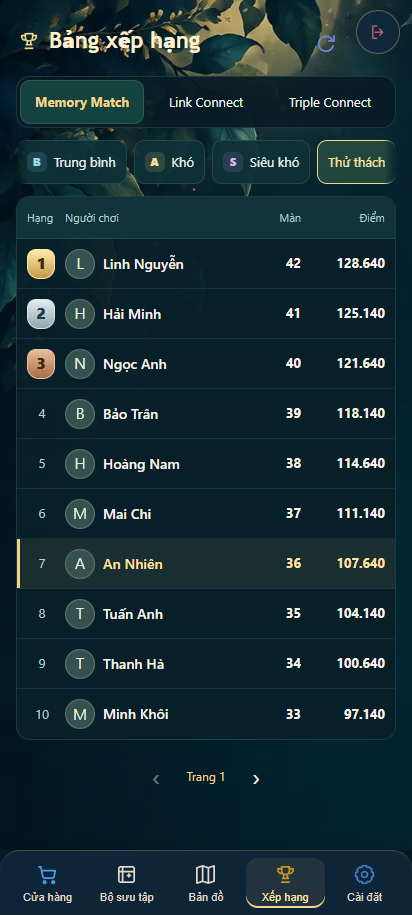
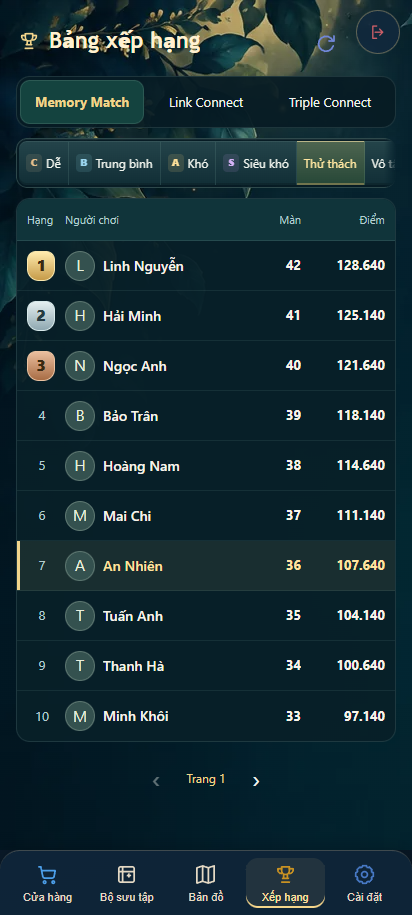
feat: add scrolling stage dropdown and compact mode strip

diff --git a/tests/ui/leaderboard-layout.spec.js b/tests/ui/leaderboard-layout.spec.js
@@ -35,31 +35,42 @@ for (const count of [0, 1, 10, 11]) test(`record count ${count}, private own rec
   await expect(page.locator('.leaderboard-view')).not.toContainText('Đã cập nhật');
   await expect(page.locator('.leaderboard-list img')).toHaveCount(0);
 });
-test('stage picker confirms 212 once, rejects invalid input and returns focus on cancel', async ({ page }) => {
+test('stage list scrolls upwards, selects 212 and MAX once and restores focus', async ({ page }) => {
   await page.setViewportSize({ width: 412, height: 915 }); await open(page);
   const before = await page.evaluate(() => window.rankRequests.length);
-  await page.getByRole('button', { name: 'Chọn màn', exact: true }).click();
-  const input = page.getByLabel('Màn chơi', { exact: true });
-  await input.fill('212');
+  const anchor = page.getByRole('button', { name: 'Chọn màn', exact: true });
+  await anchor.click();
+  const list = page.getByRole('listbox', { name: 'Màn chơi' });
+  await expect(list).toBeFocused(); await expect(page.locator('.leaderboard-stage-dialog')).toHaveAttribute('data-direction', 'up');
+  const box = await list.boundingBox(); const button = await anchor.boundingBox();
+  expect(box.height).toBe(440); expect(box.y + box.height).toBeLessThan(button.y);
+  await list.press('Home');
+  for (let i = 0; i < 21; i++) await list.press('PageDown');
+  await list.press('ArrowDown');
   expect(await page.evaluate(() => window.rankRequests.length)).toBe(before);
-  await input.press('Enter');
-  await expect(page.locator('.leaderboard-context')).toHaveCount(0);
-  await expect(page.getByRole('button', { name: 'Chọn màn', exact: true })).toContainText('212');
+  await list.press('Enter');
+  await expect(anchor).toContainText('212');
   expect(await page.evaluate(() => window.rankRequests.at(-1))).toMatchObject({ level: 212, page: 1 });
-  await page.getByRole('button', { name: 'Chọn màn', exact: true }).click();
-  for (const invalid of ['0', '-1', '2.5', 'abc', '9007199254740991']) {
-    await input.fill(invalid); await input.press('Enter');
-    await expect(input).toHaveAttribute('aria-invalid', 'true');
-    await expect(page.getByRole('button', { name: 'Chọn màn', exact: true })).toContainText('212');
-  }
-  await input.press('Escape');
-  await expect(page.locator('#leaderboard-stage-picker')).toHaveCount(0);
-  await expect(page.getByRole('button', { name: 'Chọn màn', exact: true })).toBeFocused();
-  await page.getByRole('button', { name: 'Chọn màn', exact: true }).click();
-  await input.fill('9007199254740900'); await input.press('Enter');
-  await expect(page.getByRole('button', { name: 'Chọn màn', exact: true })).toContainText('9007199254740900');
+  await anchor.click();
+  await list.evaluate(node => { node.scrollTop = node.scrollHeight; });
+  await expect(page.getByRole('option', { name: 'Màn 246', exact: true })).toHaveCount(1);
+  expect(await list.locator('[role="option"]').count()).toBeLessThanOrEqual(40);
+  await list.press('Escape'); await expect(page.locator('#leaderboard-stage-picker')).toHaveCount(0); await expect(anchor).toBeFocused();
+  await anchor.click(); await list.press('End');
+  const maxOption = page.getByRole('option', { name: 'Màn 9007199254740900', exact: true });
+  await expect(maxOption).toHaveAttribute('title', 'Màn 9007199254740900');
+  expect(await maxOption.evaluate(node => getComputedStyle(node).whiteSpace)).toBe('nowrap');
+  await list.press('Enter');
+  await expect(anchor).toContainText('9007199254740900');
   expect(await page.evaluate(() => window.rankRequests.at(-1).level)).toBe(9007199254740900);
-  await page.screenshot({ path: 'test-results/ranking-stage-picker-confirmed.png' });
+  await anchor.click(); await list.press('Home'); await list.press('Enter'); await expect(anchor).toContainText('Màn 1');
+  await anchor.click();
+  await page.setViewportSize({ width: 844, height: 390 });
+  const compact = await list.boundingBox();
+  expect(compact.y).toBeGreaterThanOrEqual(0); expect(compact.y + compact.height).toBeLessThan(390);
+  await page.getByRole('option', { name: 'Màn 2', exact: true }).click();
+  await expect(anchor).toContainText('Màn 2'); await expect(anchor).toBeFocused();
+  expect(await page.evaluate(() => window.rankRequests.at(-1))).toMatchObject({ level: 2, page: 1 });
 });
 test('30 mount, picker cancel and mode changes release every page-owned resource', async ({ page }) => {
   await open(page);
@@ -76,7 +87,7 @@ test('30 mount, picker cancel and mode changes release every page-owned resource
     await page.evaluate(async () => { window.rankCycleModal = (await import('/js/leaderboardPanel.js')).openLeaderboards(undefined, undefined, { presentation: 'screen', host: document.querySelector('.adventure-screen-host'), owner: (await import('/js/appPageLifecycle.js')).getAppPageScope() }); });
     await expect(page.locator('.leaderboard-heading')).toBeVisible();
     await page.getByRole('button', { name: 'Chọn màn', exact: true }).click();
-    await page.getByLabel('Màn chơi', { exact: true }).press('Escape');
+    await page.getByRole('listbox', { name: 'Màn chơi', exact: true }).press('Escape');
     await expect(page.locator('#leaderboard-stage-picker')).toHaveCount(0);
     await page.locator('[data-rank-mode="challenge"]').click();
     await expect(page.locator('.leaderboard-heading')).toContainText('Điểm');
@@ -158,7 +169,7 @@ test('final garden artwork, centered footer and background failure keep a usable
   await page.setViewportSize({ width: 412, height: 915 }); await open(page, 21, true);
   await page.evaluate(() => { window.rankNames = ['Linh Nguyễn', 'Hải Minh', 'Ngọc Anh', 'Bảo Trân', 'Hoàng Nam', 'Mai Chi', 'An Nhiên', 'Tuấn Anh', 'Thanh Hà', 'Minh Khôi']; window.rankUid = 'row-6'; });
   await page.getByRole('button', { name: 'Chọn màn', exact: true }).click();
-  await page.getByLabel('Màn chơi', { exact: true }).fill('212'); await page.getByRole('button', { name: 'Xem', exact: true }).click();
+  const stageList = page.getByRole('listbox', { name: 'Màn chơi', exact: true }); await stageList.press('Home'); for (let i = 0; i < 21; i++) await stageList.press('PageDown'); await stageList.press('ArrowDown'); await stageList.press('Enter');
   await expect(page.locator('.leaderboard-list .is-self')).toHaveCount(1);
   const last = await page.locator('.leaderboard-list li').last().boundingBox();
   const region = await page.locator('.leaderboard-results').boundingBox();
@@ -168,7 +179,7 @@ test('final garden artwork, centered footer and background failure keep a usable
   await page.screenshot({ path: 'docs/design/leaderboard/qa/mobile-time.png', animations: 'disabled' });
   await page.getByRole('button', { name: 'Chọn màn', exact: true }).click();
   await page.screenshot({ path: 'docs/design/leaderboard/qa/mobile-picker.png', animations: 'disabled' });
-  await page.getByLabel('Màn chơi', { exact: true }).press('Escape'); await expect(page.locator('#leaderboard-stage-picker')).toHaveCount(0);
+  await page.getByRole('listbox', { name: 'Màn chơi', exact: true }).press('Escape'); await expect(page.locator('#leaderboard-stage-picker')).toHaveCount(0);
   await page.locator('[data-rank-mode="challenge"]').click(); await expect(page.locator('.leaderboard-heading')).toContainText('Điểm');
   await page.screenshot({ path: 'docs/design/leaderboard/qa/mobile-run.png', animations: 'disabled' });
   await page.setViewportSize({ width: 844, height: 390 }); await page.screenshot({ path: 'docs/design/leaderboard/qa/landscape-run.png', animations: 'disabled' });

diff --git a/styles/leaderboard.css b/styles/leaderboard.css
@@ -28,14 +28,16 @@
 .leaderboard-tabs--game { display: grid; grid-template-columns: repeat(3, minmax(0, 1fr)); padding: 3px; border: 1px solid var(--ranking-line); border-radius: 14px; background: #061b23ed; flex-shrink: 0; }
 .leaderboard-tabs--game .app-button { border-color: transparent; background: none; font-size: 13px; line-height: 1.4; min-width: 0; }
 .leaderboard-tabs--game .app-button[aria-pressed="true"] { background: #14433f; color: var(--ranking-gold); border-color: #b8d8c626; font-weight: 700; }
-.leaderboard-tabs--mode { display: flex; gap: 7px; flex-shrink: 0; overflow-x: auto; scrollbar-width: none; overscroll-behavior-x: contain; padding: 2px 0; }
+.leaderboard-tabs--mode { display: flex; gap: 0; flex-shrink: 0; overflow-x: auto; scrollbar-width: none; overscroll-behavior-x: contain; padding: 2px; border: 1px solid #95bfb047; border-radius: 11px; background: #061b23ed; box-shadow: inset 0 1px #d4ebdc12, 0 3px 0 #020e15; }
 .leaderboard-tabs--mode::-webkit-scrollbar, .leaderboard-results::-webkit-scrollbar { display: none; }
 .leaderboard-tabs--mode.has-right { mask-image: linear-gradient(to right, #000 calc(100% - 12px), transparent); }
 .leaderboard-tabs--mode.has-left { mask-image: linear-gradient(to right, transparent, #000 12px); }
 .leaderboard-tabs--mode.has-left.has-right { mask-image: linear-gradient(to right, transparent, #000 12px, #000 calc(100% - 12px), transparent); }
-.leaderboard-tabs--mode .app-button { display: inline-flex; align-items: center; justify-content: center; gap: 7px; flex-shrink: 0; width: auto; white-space: nowrap; font-size: 13px; }
-.leaderboard-tabs--mode .app-button[aria-pressed="true"] { border-color: var(--ranking-gold); background: #24493ded; color: #ffe6a0; }
-.leaderboard-grade { display: inline-grid; place-items: center; width: 20px; height: 20px; border-radius: 6px; font-size: 11px; font-weight: 800; background: #cbb18b22; color: #e5be8b; }
+.leaderboard-tabs--mode .app-button { display: inline-flex; align-items: center; justify-content: center; gap: 4px; flex: 1 0 auto; width: auto; white-space: nowrap; font-size: 12px; padding: 5px 7px; border: 0; border-right: 1px solid #90baaf26; border-radius: 0; background: linear-gradient(#24444a, #112e36); box-shadow: inset 0 1px #d6efdf18, inset 0 -2px #020e1540; }
+.leaderboard-tabs--mode .app-button:first-child { border-radius: 8px 0 0 8px; }
+.leaderboard-tabs--mode .app-button:last-child { border-right: 0; border-radius: 0 8px 8px 0; }
+.leaderboard-tabs--mode .app-button[aria-pressed="true"] { background: linear-gradient(#4e6550, #264737); color: #ffe6a0; box-shadow: inset 0 1px #ffe9ab99, inset 0 -2px #bda26480; }
+.leaderboard-grade { display: inline-grid; place-items: center; width: 16px; height: 18px; border-radius: 4px; font-size: 10px; font-weight: 800; background: #cbb18b22; color: #e5be8b; }
 [data-rank-mode="normal"] .leaderboard-grade { background: #87cfe422; color: #9bd6ef; }
 [data-rank-mode="hard"] .leaderboard-grade { background: #ffdb8122; color: #ffe099; }
 [data-rank-mode="superHard"] .leaderboard-grade { background: #bc98e222; color: #d5b2f6; }
@@ -75,15 +77,13 @@
 .leaderboard-pager > span { text-align: center; font-size: 12px; min-width: 56px; color: var(--ranking-gold); }
 .leaderboard-page-numbers { display: none; }
 .leaderboard-pager .app-button { font-size: 26px; }
-.leaderboard-stage-dialog { background: linear-gradient(145deg, #14383d, #071e28); color: #edf4eb; border-color: #dfc17b70; }
-.app-modal-overlay:has(> .leaderboard-stage-dialog) { background: #020e15b8; }
-.leaderboard-stage-dialog .app-modal__title, .leaderboard-stage-dialog .app-modal__close { color: #ffe1a0; }
-.leaderboard-stage-dialog .app-modal__close { width: 44px; height: 44px; flex-basis: 44px; }
-.leaderboard-stage-form { display: grid; gap: 12px; }
-.leaderboard-stage-form input { min-height: 48px; box-sizing: border-box; width: 100%; border: 1px solid #92b9b055; border-radius: 10px; padding: 8px 12px; background: #071e28; color: #fff1d1; font: 600 20px/1.4 'Segoe UI', sans-serif; }
-.leaderboard-stage-form .app-button { min-height: 44px; background: #ecd08a; color: #16302e; }
-.leaderboard-stage-error { font-size: 13px; color: #f1b6a4; }
-.leaderboard-stage-error:empty { display: none; }
+.leaderboard-stage-overlay { background: #020e1540; }
+.leaderboard-stage-dialog { position: fixed; margin: 0; max-width: none; max-height: none; border-radius: 12px; background: linear-gradient(145deg, #14383d, #071e28); color: #edf4eb; border: 1px solid #dfc17b70; box-shadow: 0 8px 24px #0008, inset 0 1px #d9ecc820; animation: none; transform: none; }
+.leaderboard-stage-dialog .app-modal__body { padding: 0; overflow: hidden; }
+.leaderboard-stage-list { overflow-y: auto; overscroll-behavior: contain; scrollbar-width: thin; scrollbar-color: #7c9b89 #0b2730; outline: none; border-radius: 11px; }
+.leaderboard-stage-option { box-sizing: border-box; height: 44px; padding: 12px 16px; border-bottom: 1px solid #b4d1bb14; font: 500 14px/20px 'Segoe UI', sans-serif; cursor: pointer; white-space: nowrap; overflow: hidden; text-overflow: ellipsis; }
+.leaderboard-stage-option[aria-selected="true"] { color: #ffe6a0; background: #e9c77818; box-shadow: inset 3px 0 #f1d58b; }
+.leaderboard-stage-option:hover, .leaderboard-stage-list:focus-visible .leaderboard-stage-option.is-active { background: #97c4b328; outline: 1px solid #eed38b90; outline-offset: -2px; }
 @media (max-height: 500px) and (orientation: landscape) {
   .leaderboard-panel .app-modal__header { padding-top: 4px; padding-bottom: 4px; }
   .leaderboard-panel .app-modal__body { padding-bottom: 4px; }

diff --git a/js/leaderboardStagePicker.js b/js/leaderboardStagePicker.js
@@ -1,0 +1,80 @@
+import { openAppModal } from './modal.js';
+import { createGameShellLifecycle } from './gameShell/gameShellLifecycle.js';
+import { MAX_ADVENTURE_LEVEL } from './adventureProgress.js';
+
+const ROW_HEIGHT = 44;
+const WINDOW_SIZE = 40;
+const VISIBLE_ROWS = 10;
+
+export function openLeaderboardStagePicker({ anchor, value, owner, onSelect, onDestroy }) {
+  const lifecycle = createGameShellLifecycle();
+  const list = document.createElement('div');
+  list.className = 'leaderboard-stage-list'; list.tabIndex = 0;
+  list.setAttribute('role', 'listbox'); list.setAttribute('aria-label', 'Màn chơi');
+  let active = value;
+  let start = Math.max(1, Math.min(value - 15, MAX_ADVENTURE_LEVEL - WINDOW_SIZE + 1));
+  const modal = openAppModal({ id: 'leaderboard-stage-picker', title: 'Chọn màn', showHeader: false,
+    content: list, owner, onDestroy: () => { lifecycle.dispose(); anchor.setAttribute('aria-expanded', 'false'); onDestroy(); } });
+  modal.overlay.classList.add('leaderboard-stage-overlay');
+  modal.panel.classList.add('leaderboard-stage-dialog'); modal.panel.setAttribute('aria-label', 'Chọn màn');
+  anchor.setAttribute('aria-expanded', 'true');
+  function render() {
+    const fragment = document.createDocumentFragment();
+    for (let n = start; n < start + WINDOW_SIZE && n <= MAX_ADVENTURE_LEVEL; n++) {
+      const option = document.createElement('div'); option.className = 'leaderboard-stage-option';
+      option.id = `leaderboard-stage-${n}`; option.dataset.level = String(n);
+      option.setAttribute('role', 'option'); option.setAttribute('aria-selected', String(n === value));
+      option.classList.toggle('is-active', n === active); option.textContent = `Màn ${n}`;
+      option.title = option.textContent;
+      fragment.append(option);
+    }
+    list.replaceChildren(fragment);
+    list.setAttribute('aria-activedescendant', `leaderboard-stage-${active}`);
+  }
+  function position() {
+    const rect = anchor.getBoundingClientRect();
+    const above = rect.top - 12; const below = innerHeight - rect.bottom - 12;
+    const upwards = above >= below;
+    const available = Math.max(ROW_HEIGHT, (upwards ? above : below) - 8);
+    list.style.height = `${Math.min(VISIBLE_ROWS * ROW_HEIGHT, Math.floor(available / ROW_HEIGHT) * ROW_HEIGHT)}px`;
+    const width = Math.min(180, innerWidth - 24);
+    modal.panel.style.width = `${width}px`;
+    modal.panel.style.left = `${Math.max(12, Math.min(rect.left, innerWidth - width - 12))}px`;
+    modal.panel.style.top = upwards ? 'auto' : `${rect.bottom + 6}px`;
+    modal.panel.style.bottom = upwards ? `${innerHeight - rect.top + 6}px` : 'auto';
+    modal.panel.dataset.direction = upwards ? 'up' : 'down';
+  }
+  function move(next) {
+    active = Math.max(1, Math.min(MAX_ADVENTURE_LEVEL, next));
+    if (active < start || active >= start + WINDOW_SIZE) start = Math.max(1, Math.min(active - 15, MAX_ADVENTURE_LEVEL - WINDOW_SIZE + 1));
+    render();
+    const y = (active - start) * ROW_HEIGHT;
+    if (y < list.scrollTop) list.scrollTop = y;
+    else if (y + ROW_HEIGHT > list.scrollTop + list.clientHeight) list.scrollTop = y + ROW_HEIGHT - list.clientHeight;
+  }
+  function choose(n) { modal.destroy(); onSelect(n); }
+  lifecycle.listen(list, 'click', event => {
+    const option = event.target.closest('[data-level]'); if (option) choose(Number(option.dataset.level));
+  });
+  lifecycle.listen(list, 'keydown', event => {
+    const steps = { ArrowDown: 1, ArrowUp: -1, PageDown: VISIBLE_ROWS, PageUp: -VISIBLE_ROWS };
+    if (event.key in steps) { event.preventDefault(); move(active + steps[event.key]); }
+    else if (event.key === 'Home' || event.key === 'End') { event.preventDefault(); move(event.key === 'Home' ? 1 : MAX_ADVENTURE_LEVEL); }
+    else if (event.key === 'Enter' || event.key === ' ') { event.preventDefault(); choose(active); }
+  });
+  lifecycle.listen(list, 'scroll', () => {
+    const offset = list.scrollTop;
+    const first = Math.floor(offset / ROW_HEIGHT);
+    const nextStart = first < 5 && start > 1 ? Math.max(1, start - 10)
+      : first >= WINDOW_SIZE - VISIBLE_ROWS - 5 ? Math.min(MAX_ADVENTURE_LEVEL - WINDOW_SIZE + 1, start + 10) : start;
+    if (nextStart === start) return;
+    const shift = start - nextStart;
+    start = nextStart;
+    // Keep the focused option inside the bounded window while browsing by touch.
+    active = Math.max(start, Math.min(start + WINDOW_SIZE - 1, active));
+    render(); list.scrollTop = offset + shift * ROW_HEIGHT;
+  });
+  lifecycle.listen(window, 'resize', position);
+  render(); position(); list.scrollTop = Math.max(0, (value - start - 4) * ROW_HEIGHT); list.focus();
+  return modal;
+}

diff --git a/js/leaderboardPanel.js b/js/leaderboardPanel.js
@@ -10,6 +10,7 @@ import { getLeaderboardService } from './leaderboardService.js';
 import { readLeaderboard } from './leaderboardStore.js';
 import { readCachedLeaderboard } from './leaderboardStore.js';
 import { rankingBoardId } from './rankingResult.js';
+import { openLeaderboardStagePicker } from './leaderboardStagePicker.js';
 import { formatLeaderboardTime, formatLeaderboardNumber } from './leaderboardPresentation.js';
 import { createGameShellLifecycle, getActiveGameScope } from './gameShell/gameShellLifecycle.js';
 import { getAppPageScope } from './appPageLifecycle.js';
@@ -30,7 +31,7 @@ export function openLeaderboards(gameId, onClose, surface = {}) {
   const modes = tabs('Chế độ', [...GAME_MODES].sort((a, b) => (a.id === 'endless') - (b.id === 'endless')).map(item => [item.id, item.label]), 'mode');
   const filters = document.createElement('div'); filters.className = 'leaderboard-filters';
   const footer = document.createElement('div'); footer.className = 'leaderboard-footer';
-  const levelLabel = button(''); levelLabel.classList.add('leaderboard-level'); levelLabel.setAttribute('aria-label', 'Chọn màn');
+  const levelLabel = button(''); levelLabel.classList.add('leaderboard-level'); levelLabel.setAttribute('aria-label', 'Chọn màn'); levelLabel.setAttribute('aria-haspopup', 'dialog'); levelLabel.setAttribute('aria-expanded', 'false');
   const level = { value: '1' };
   const refresh = button('Làm mới');
   refresh.setAttribute('aria-label', 'Làm mới'); refresh.replaceChildren(createIcon('restart')); refresh.classList.add('leaderboard-refresh');
@@ -129,25 +130,10 @@ export function openLeaderboards(gameId, onClose, surface = {}) {
   scope.listen(modes, 'click', event => { const item = event.target.closest('[data-rank-mode]'); if (!item) return; selectedMode = item.dataset.rankMode; revealMode(item); updateFilters(); void load(); });
   scope.listen(levelLabel, 'click', () => {
     if (picker) { picker.panel.focus(); return; }
-    const form = document.createElement('form'); form.className = 'leaderboard-stage-form';
-    const input = document.createElement('input'); input.type = 'text'; input.inputMode = 'numeric'; input.maxLength = 16; input.value = level.value; input.setAttribute('aria-label', 'Màn chơi'); input.autocomplete = 'off';
-    const message = document.createElement('p'); message.className = 'leaderboard-stage-error'; message.setAttribute('aria-live', 'polite');
-    const confirm = button('Xem'); confirm.type = 'submit';
-    form.append(input, message, confirm);
-    const dialogScope = createGameShellLifecycle();
-    const release = scope.own(() => { dialogScope.dispose(); }, 'cleanup');
-    picker = openAppModal({ id: 'leaderboard-stage-picker', title: 'Chọn màn', icon: 'map', content: form, size: 'small', owner: scope, onDestroy: () => { dialogScope.dispose(); release.forget(); picker = null; } });
-    picker.panel.classList.add('leaderboard-stage-dialog');
-    const dialog = picker;
-    dialogScope.listen(form, 'submit', event => {
-      event.preventDefault();
-      const raw = input.value.trim(); const value = Number(raw);
-      if (!/^\d+$/.test(raw) || !Number.isSafeInteger(value) || value < 1 || value > MAX_ADVENTURE_LEVEL) {
-        message.textContent = 'Số màn chưa hợp lệ.'; input.setAttribute('aria-invalid', 'true'); input.focus(); return;
-      }
-      level.value = String(value); dialog.destroy(); updateFilters(); void load();
+    picker = openLeaderboardStagePicker({ anchor: levelLabel, value: Number(level.value), owner: scope,
+      onDestroy: () => { picker = null; },
+      onSelect: value => { level.value = String(value); updateFilters(); void load(); }
     });
-    input.focus(); input.select();
   });
   scope.listen(refresh, 'click', () => { void load(true); });
   scope.listen(previous, 'click', () => { if (!loading && currentPage > 1) void load(false, currentPage - 1); });

diff --git a/tests/ui/leaderboard.spec.js b/tests/ui/leaderboard.spec.js
@@ -38,8 +38,8 @@ test('durable offline result retries once; slow attempts cannot overwrite best; 
   await page.locator('[data-dock-action="ranking"]').click();
   await expect(page.locator('#rankings-modal')).toBeVisible();
   await page.getByRole('button', { name: 'Chọn màn', exact: true }).click();
-  await page.getByLabel('Màn chơi', { exact: true }).fill('1');
-  await page.getByRole('button', { name: 'Xem', exact: true }).click();
+  const stages = page.getByRole('listbox', { name: 'Màn chơi' });
+  await stages.press('Home'); await stages.press('Enter');
   await expect(page.locator('.leaderboard-list')).toContainText('<img src=x>');
   await expect(page.locator('.leaderboard-list img')).toHaveCount(0);
   await expect(page.locator('.leaderboard-list .is-self')).toContainText('00:01,00');

diff --git a/LEADERBOARD_REDESIGN_PLAN.md b/LEADERBOARD_REDESIGN_PLAN.md
@@ -15,6 +15,7 @@ Làm lại bảng xếp hạng theo phong cách Vườn đêm, nội dung dành 
 
 ## 2. Nguồn thiết kế và quyết định
 
+- Điều chỉnh tiếp ngày2026-10-14 theo yêu cầu người dùng: thay ô nhập bằng danh sách cuộn khoảng10 hàng, neo vào nút và tự mở lên trên nếu thiếu chỗ phía dưới. Cửa sổ40 option có giới hạn, bổ sung hai hướng khi cuộn; không tạo toàn bộ màn tớiMAX. Arrow/Page/Home/End/Enter/Escape hoạt động, chỉ query sau chọn. Sáu chế độ nhỏ hơn, liền dãy, dùng gradient/viền/bóng tĩnh tạo độ nổi; giữ vùng chạm44px và cuộn ngang. Quyết định này thay yêu cầu picker nhập số và gap giữa mode trong thiết kế ban đầu bên dưới.
 - Điều chỉnh sau nghiệm thu ngày2026-10-14 theo yêu cầu người dùng: bỏ nhãn Màn N phía trên bảng để không lặp; chỉ giữ nút chọn màn ở footer. Quyết định này thay phần nhãn ngữ cảnh đầu bảng trong thiết kế ban đầu bên dưới.
 - `docs/design/leaderboard/leaderboard-reference.png`: ảnh minh họa đã được người dùng đánh giá tốt hơn. Đây là tham chiếu mỹ thuật, không phải nguồn luật hoặc dữ liệu thật.
 - `docs/design/leaderboard/night-garden-background-master.png`: nền mới, không chứa UI/chữ, nguồn PNG để xuất bản runtime sau.
@@ -167,4 +168,5 @@ Yêu cầu đã giữ lại: ngày tham gia và tổng thời gian chơi của m
 - Phase5: review độc lập chấp thuận; sửa cache offline đúng board/UID/page, bỏ nhánh UI cũ khi Firebase disabled, tăng tương phản huy hiệu và nền picker; mobile412×915 đủ10 dòng. npm run check, build web và build Android wrapper pass; không build APK. Browser ranking13/13, profile5/5, regression shell/navigation/cleanup và online/auth/ranking16/16 pass qua các lượt mục tiêu. Test30chu kỳ trả resource về baseline, dùng một request ảnh đã warm và tối đa1 sự kiện decode trong trace; không suy diễn thành60FPS trên điện thoại. Ảnh runtime mobile/time/run/picker, landscape, desktop và fallback ở docs/design/leaderboard/qa/.
 - Firebase2026-10-14: permission-denied do Rules đang chạy thiếu profileStats và chỉ có ranking v1. Đã so diff với bản remote, kiểm privateRules owner/admin/concurrent/replay/invalid pass, deploy chỉ firestore:rules; đọc lại release xác nhận đúng source local, có profileStats và v2. Metadata trước/sau lưu trong qa/firebase-rules-before.json và firebase-rules-after.json. Chưa thử lại phiên trình duyệt thực của người báo lỗi vì không có phiên đó trong công cụ; không giả nhận client đã reconnect.
 - Commit Phase1–4: 459e4fe / f98bd8d / 572515a / 72fdfcc. Phase5 chứa nghiệm thu và các sửa cuối.
+- Điều chỉnh danh sách/mode sau nghiệm thu: check toàn bộ và build web pass; layout13/13, kiểm bổ sung picker/chạm/resize/MAX pass, Firebase emulator ranking2/2 pass. Review độc lập6/6 pass, chấp thuận sau sửa nhãn dài nowrap/ellipsis với title đầy đủ. 30 lần mở/đóng vẫn trả tài nguyên về baseline. Ảnh runtime trong qa đã cập nhật; không đổi schema/save/Rules hoặc deploy Hosting trong lần chỉnh UI này.
 - Giới hạn còn lại: Galaxy S22 Ultra thật chưa có thiết bị/remote debugging; dashboard admin ngoài repository chưa tích hợp. Ngày tham gia online từ Auth; không bịa lịch sử thời gian trước khi theo dõi. API gameplay, save format và schema ranking public được giữ; thêm metadata/counter private độc lập đã test.

diff --git a/CONTEXT.md b/CONTEXT.md
@@ -4,7 +4,7 @@
 
 ## Sản phẩm
 
-- Bảng xếp hạng Vườn đêm đã hoàn tất Phase1–5 ngày2026-10-14; LEADERBOARD_REDESIGN_PLAN.md là hồ sơ nghiệm thu, không còn kế hoạch triển khai active. Một hàng mode cuộn ngang, ô chọn màn dưới cạnh pager căn giữa, nhập212 trực tiếp; không XP/cấp. Profile có ngày tham gia Auth và tổng active playtime riêng dùng chung ba trò, đồng bộ counter idempotent; chỉ owner/admin đọc. Không đổi gameplay/save/public ranking schema. Check/build web/Android wrapper, browser và emulator pass; review độc lập chấp thuận. Firestore Rules đã deploy riêng để sửa permission-denied của profileStats và cho phép ranking v2; nguồn remote đã đối chiếu khớp. Chưa deploy Hosting/APK. QA Galaxy S22 Ultra thật và tích hợp dashboard admin ngoài repo còn chờ; chưa xác minh lại phiên client báo lỗi. Chi tiết/bằng chứng trong kế hoạch và docs/design/leaderboard/qa/.
+- Bảng xếp hạng Vườn đêm đã hoàn tất Phase1–5 ngày2026-10-14; LEADERBOARD_REDESIGN_PLAN.md là hồ sơ nghiệm thu, không còn kế hoạch triển khai active. Một hàng mode cuộn ngang, ô chọn màn dưới cạnh pager căn giữa, danh sách màn cuộn khoảng10 hàng mở lên trên gần đáy; mode liền dãy nổi nhẹ, không XP/cấp. Profile có ngày tham gia Auth và tổng active playtime riêng dùng chung ba trò, đồng bộ counter idempotent; chỉ owner/admin đọc. Không đổi gameplay/save/public ranking schema. Check/build web/Android wrapper, browser và emulator pass; review độc lập chấp thuận. Firestore Rules đã deploy riêng để sửa permission-denied của profileStats và cho phép ranking v2; nguồn remote đã đối chiếu khớp. Chưa deploy Hosting/APK. QA Galaxy S22 Ultra thật và tích hợp dashboard admin ngoài repo còn chờ; chưa xác minh lại phiên client báo lỗi. Chi tiết/bằng chứng trong kế hoạch và docs/design/leaderboard/qa/.
 
 - Ứng dụng JavaScript ES modules; backend local chính là IndexedDB theo chặng, facade persistence bất đồng bộ. Firebase Firestore Singapore đã cấu hình Rules/indexes; Auth Guest/Google, sync, xếp hạng online và Analytics production-only đã triển khai. Chưa deploy Hosting trong task này; dashboard Analytics/OAuth hosted/thiết bị thật còn cần QA trước phát hành.
 - Sản phẩm chưa phát hành. Yêu cầu ngày 2026-10-13 thay chính sách reset development: giữ Xu/vật phẩm/chủ đề/kỷ lục/session khi chuyển định dạng. Bản nguồn formatVersion=1 được giữ làm phục hồi; formatVersion=2 dùng transaction profile + chapter, cache giới hạn theo chặng đang xem/phiên. Không fallback sang v1 khi backend mới từng được dùng; dữ liệu hỏng/version lạ chặn ghi. Ghi thất bại chặn các snapshot phụ thuộc và yêu cầu tải lại bản đã commit, không tiếp tục ghi dữ liệu RAM chưa bền vững.
